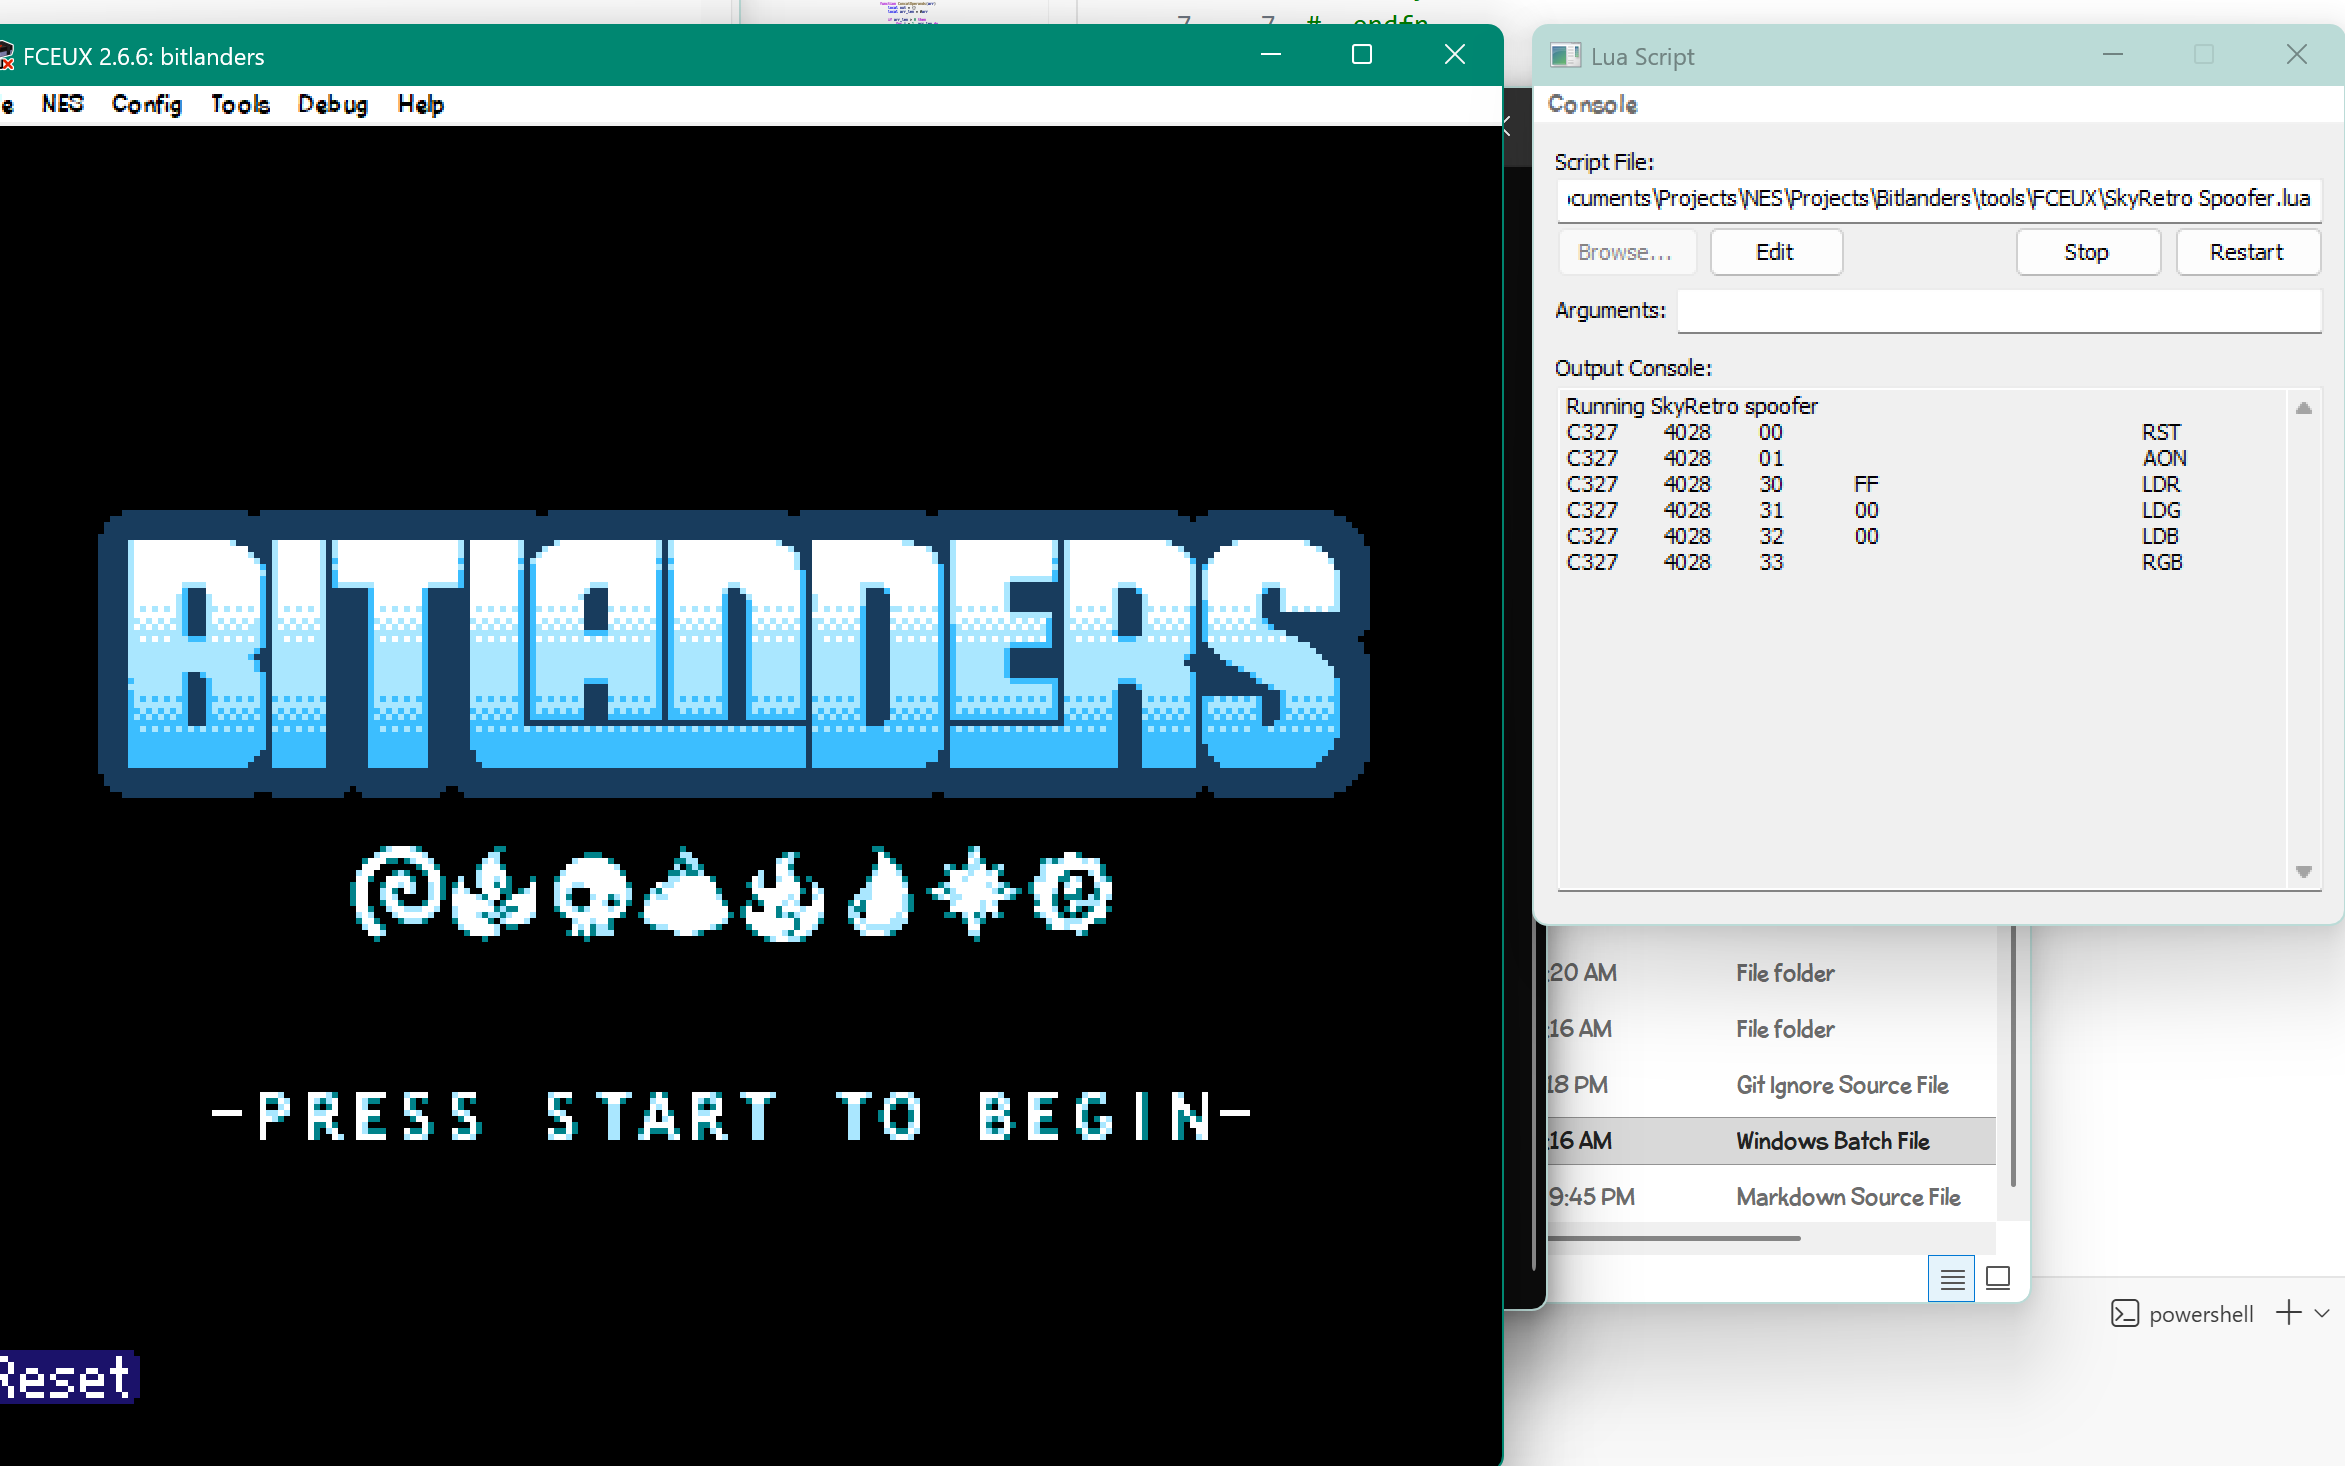
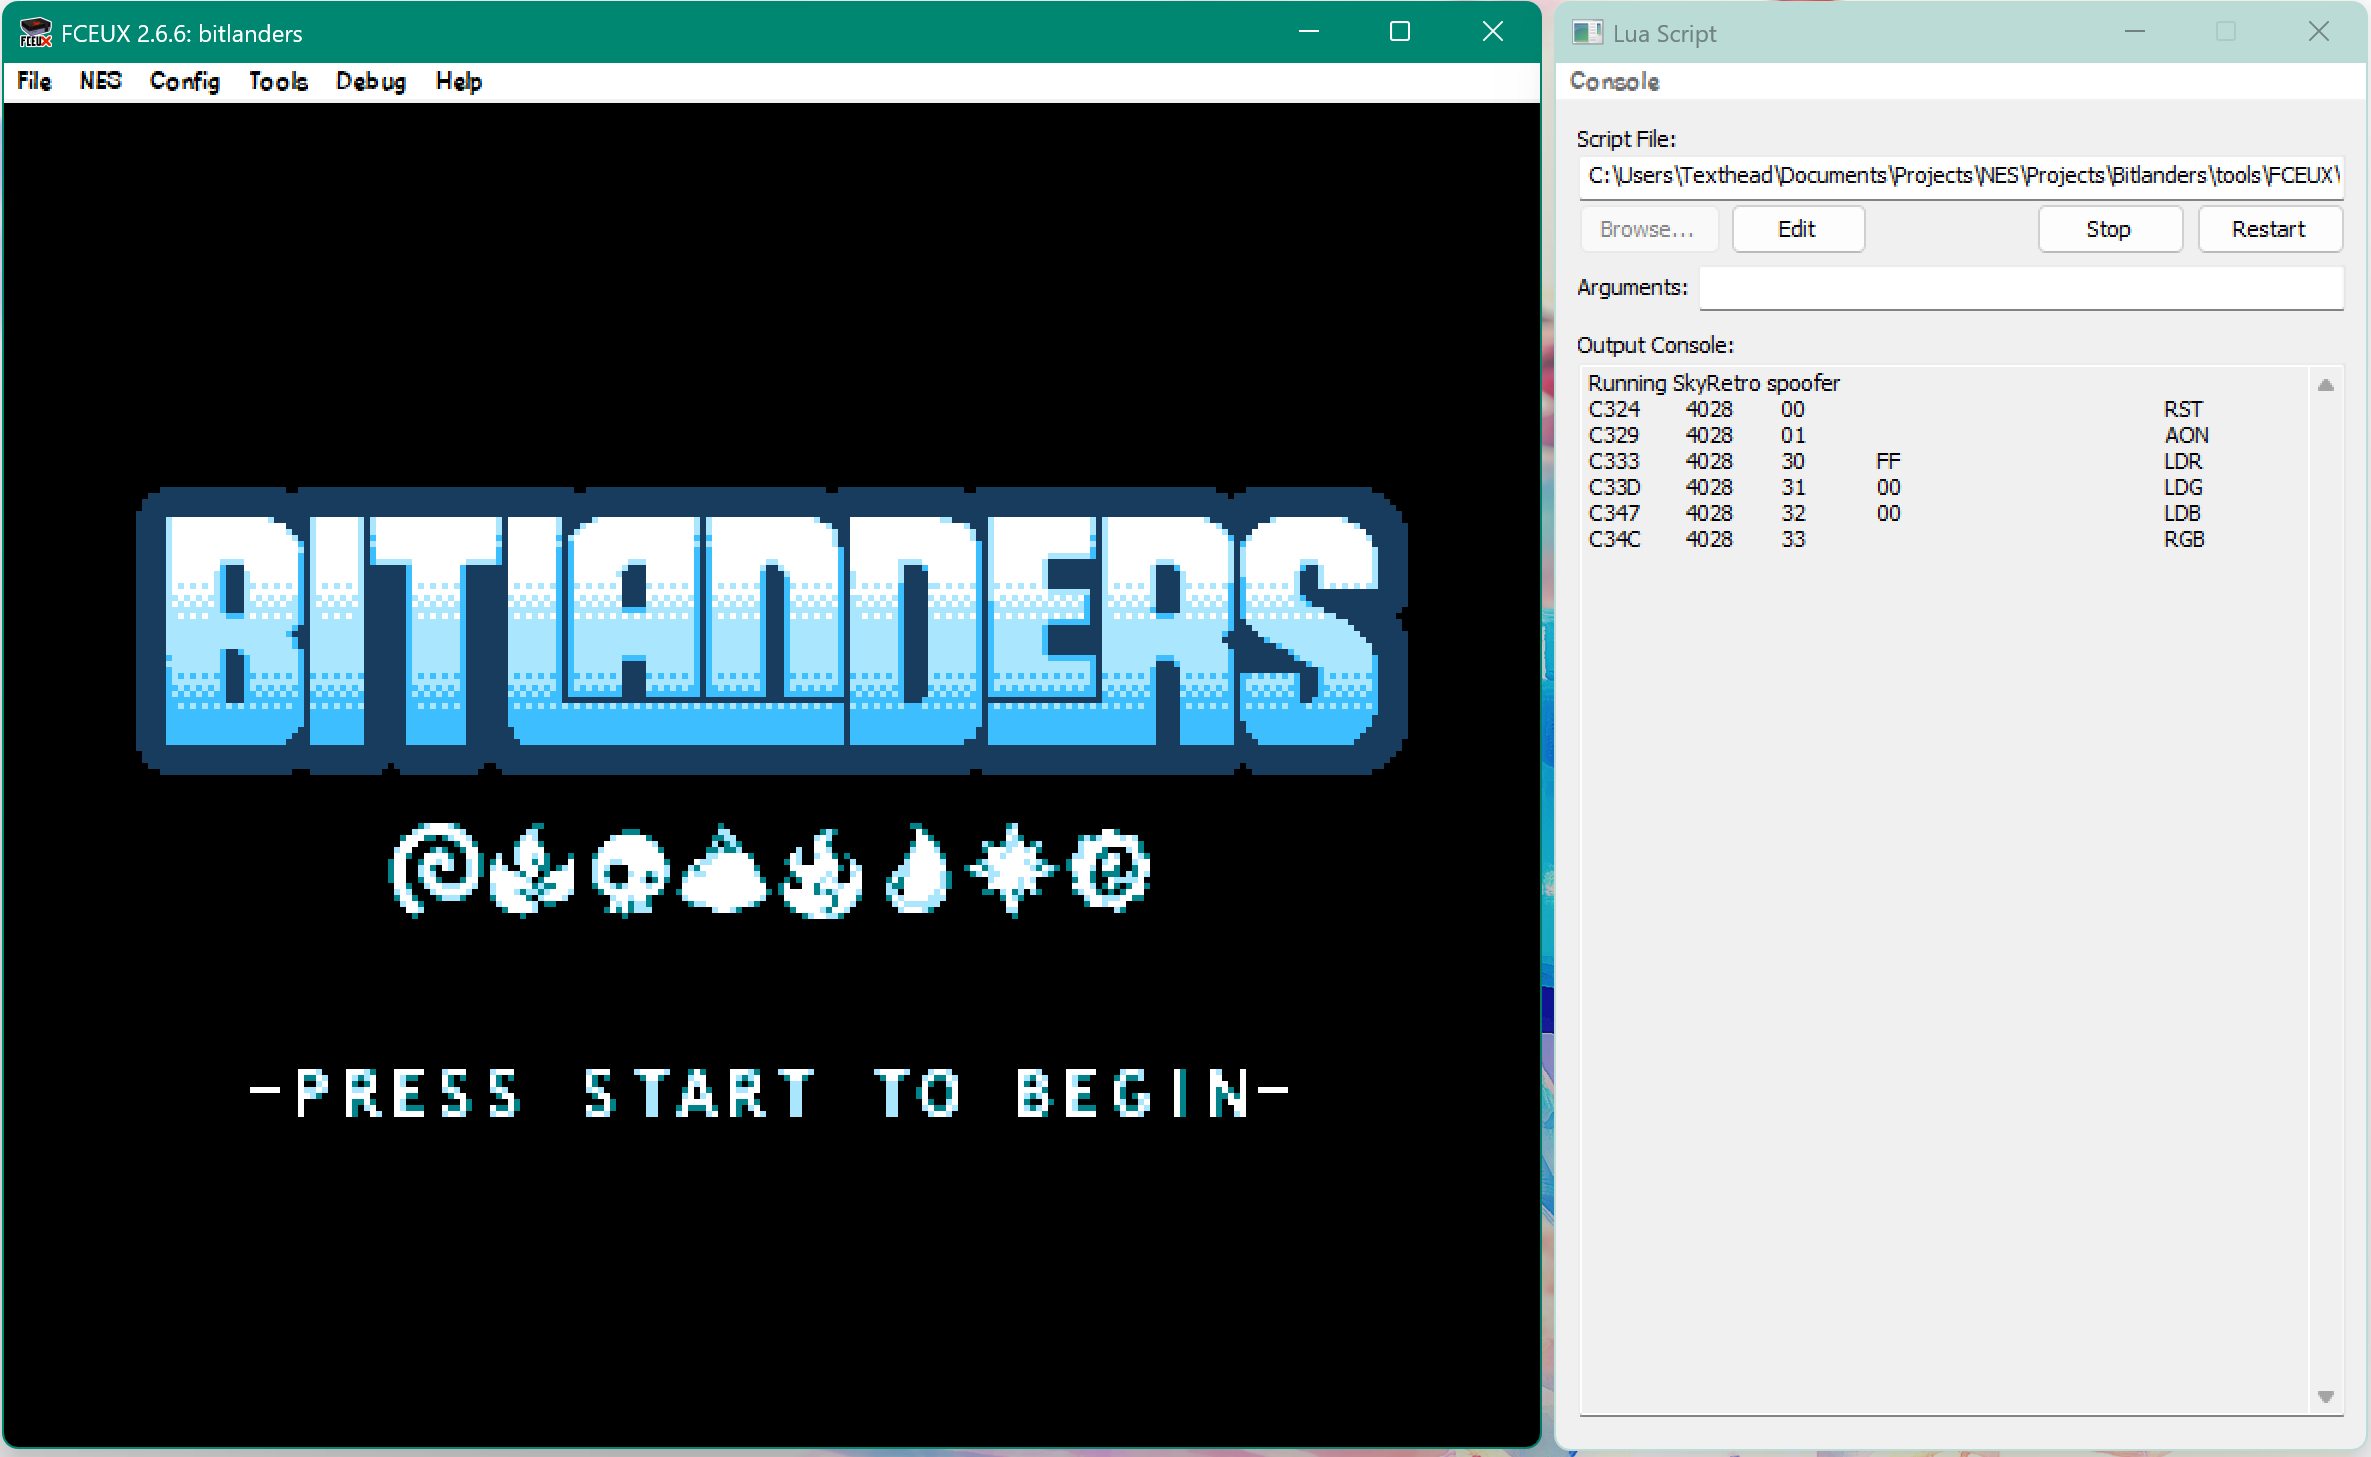
i'm tired yaaaawn

diff --git a/compiler/bin/skyas.py b/compiler/bin/skyas.py
@@ -9,6 +9,9 @@ import sys
 # TODO: make this more robust with a proper parser
 # TODO: detect duplicate function names
 # TODO: better error handling
+# TODO: add NES register support for operands + inline 6502 asm (PHA and PLA are musts)
+
+# loops are now unrolled, reduces cycles for transfer
 
 SKYASM_EXT  = ".ssa"
 CA65ASM_EXT = ".s"
@@ -18,7 +21,7 @@ VERBOSE = False
 
 base_name = ""
 
-# TODO: expand opcodes
+# TODO: expand opcodes, add new ones!
 OPCODES = {
     "rst" : [0x00],
     "aon" : [0x01],
@@ -77,18 +80,12 @@ def emit_proc(name, mcode):
     out.append(f".segment \"CODE\"\n")
     out.append(f"; callable in C as: void {name}(void);")
     out.append(f"_{name}:")
-    out.append(f"\tldx #$00")
-    out.append(f"@loop:")
-    out.append(f"\tlda {name}_data, x")
-    out.append(f"\tsta ${SKYRETRO_CMD_PORT:04X}")
-    out.append(f"\tinx")
-    out.append(f"\tcpx #{len(mcode)}")
-    out.append(f"\tbne @loop")
-    out.append(f"\trts\n")
-    out.append(f"{name}_data:")
 
     for byte in mcode:
-        out.append(f"\t.byte ${byte:02X}")
+        out.append(f"\tlda #${byte:02X}")
+        out.append(f"\tsta ${SKYRETRO_CMD_PORT:04X}")
+
+    out.append(f"\trts\n")
 
     return "\n".join(out)
 
@@ -173,21 +170,21 @@ def assemble():
     for root, _, files in os.walk('.'):
         for filename in files:
             if filename.endswith(SKYASM_EXT):
-                print("Assembling file: " + filename)
+                if VERBOSE: print("Assembling file: " + filename)
                 handle_file(os.path.join(root, filename))
-                print(f"Assembled: {filename}")
+                if VERBOSE: print(f"Assembled: {filename}")
                 out_files.append(os.path.join(root.removeprefix(".\\"), os.path.splitext(filename)[0] + CA65ASM_EXT))
                 obj_list.append(os.path.join(root.removeprefix(".\\"), os.path.splitext(filename)[0] + ".o"))
 
-    print(f"Assembled {len(out_files)} files.")
+    print(f"Assembled {len(out_files)} SkyASM {SKYASM_EXT} files")
     if len(out_files) == 0: return
     
-    with open("skyc_assembled.txt", "w") as f:
-        print("\n".join(out_files))
+    with open("skyas_assembled.txt", "w") as f:
+        if VERBOSE: print("\n".join(out_files))
         f.write("\n".join(out_files))
     
-    with open("skyc_objlist.txt", "w") as f:
-        print("\n".join(obj_list))
+    with open("skyas_objlist.txt", "w") as f:
+        if VERBOSE: print("\n".join(obj_list))
         f.write("\n".join(obj_list))
 
 # we wanna grab the original .ssa file and remove the corresponding .s file
@@ -201,19 +198,19 @@ def clean():
         for filename in files:
             if filename.endswith(SKYASM_EXT):
                 clean_skyasm(os.path.join(root, filename))
-            elif filename == "skyc_assembled.txt":
+            elif filename == "skyas_assembled.txt":
                 if VERBOSE: print(f"Removing file: {filename}")
                 os.remove(filename)
-            elif filename == "skyc_objlist.txt":
+            elif filename == "skyas_objlist.txt":
                 if VERBOSE: print(f"Removing file: {filename}")
                 os.remove(filename)
 
 def help():
-    print("Usage: python skyc.py [--asmc | --clean] [--verbose]")
-    print("  --asmc, -a     : Assemble all skyasm files in directory.")
-    print("  --clean, -c    : Clean all wrapped files in directory.")
-    print("  --verbose, -v  : Enable verbose output.")
-    print("  --help, -h     : Show this help message.")
+    print("Usage: python skyas.py [--asmc | --clean] [--verbose]")
+    print("  --asmc, -a     : Assemble all SkyASM .ssa files in directory")
+    print("  --clean, -c    : Clean all wrapped files in directory")
+    print("  --verbose, -v  : Enable verbose output")
+    print("  --help, -h     : Show this help message")
     sys.exit(0)
 
 if __name__ == "__main__":

diff --git a/docs/SkyASM-Opcodes.md b/docs/SkyASM-Opcodes.md
@@ -1,0 +1,92 @@
+# SkyASM Opcodes
+
+The SkyRetro Peripheral Interface Processor (SRPIP) has 3 registers: `R`, `G`, and `B`.
+
+The SRPIP firmware additionally contains RGB entries for each element, so that the peripheral's LED can be changed to a predefined color based on element.
+
+Opcode (Hex) | Size | Mnemonic | Information
+-------------|------|----------|------------
+00           | 1    | AON      | Enable the nfc field antenna of the connected peripheral
+10           | 1    | RST      | Reset the connected peripheral
+20           | 1    | RGB      | Set the RGB of the peripheral's LED based on the R, G, and B registers
+21           | 2    | LDR      | Load a value into the R register
+22           | 2    | LDG      | Load a value into the G register
+23           | 2    | LDB      | Load a value into the B register
+28           | 4    | COL      | Set the RGB of the peripheral's LED based on the operands (RGB order)
+30           | 2    | ELM      | Set the peripheral's LED based on a given elemental index. ([see more](#elemental-color-index))
+31           | 2    | ELER     | Set the peripheral's LED to the corresponding RGB for the Earth element
+32           | 2    | ELWA     | Set the peripheral's LED to the corresponding RGB for the Water element
+33           | 2    | ELAI     | Set the peripheral's LED to the corresponding RGB for the Air element
+34           | 2    | ELFI     | Set the peripheral's LED to the corresponding RGB for the Fire element
+35           | 2    | ELLF     | Set the peripheral's LED to the corresponding RGB for the Life element
+36           | 2    | ELDE     | Set the peripheral's LED to the corresponding RGB for the Undead element
+37           | 2    | ELMG     | Set the peripheral's LED to the corresponding RGB for the Magic element
+38           | 2    | ELTC     | Set the peripheral's LED to the corresponding RGB for the Tech element
+39           | 2    | ELLT     | Set the peripheral's LED to the corresponding RGB for the Light element
+3A           | 2    | ELDR     | Set the peripheral's LED to the corresponding RGB for the Dark element
+3B           | 2    | ELKS     | Set the peripheral's LED to the corresponding RGB for the Kaos element
+40           | 1    | RGBL     | If supported, set the peripheral's left LED based on the R, G, and B registers
+41           | 1    | RGBR     | If supported, set the peripheral's right LED based on the R, G, and B registers
+42           | 1    | RGBT     | If supported, set the peripheral's Trap Slot LED based on the R register
+48           | 4    | COLL     | If supported, set the peripheral's left LED based on the operands (RGB order)
+49           | 4    | COLR     | If supported, set the peripheral's left LED based on the operands (RGB order)
+4A           | 2    | TRP      | If supported, set the peripheral's left LED based on the operand
+50           | 1    | INR      | Increment the value in the R register by 1
+51           | 1    | ING      | Increment the value in the G register by 1
+52           | 1    | INB      | Increment the value in the B register by 1
+60           | 1    | SON      | If supported, activates the sound/speaker on the peripheral
+68           | 2    | VIB      | If supported, configure Trap Slot vibrancy tolerance (higher value = louder audio needed to make the LED glow)
+70           | 2    | WAIT     | Wait a given amount of ticks (tick is equal to a frame - 60hz), instructions avoid this wait time unless prepended by the BUF instruction
+74           | 1    | BUF      | Add the next instruction to the buffer. If there is no wait duration, the next instruction will execute immediately
+7A           | 1    | NOW      | Clear the wait time to execute the buffered instructions. Any buffered instructions will execute immediately
+80           | 1    | AOFF     | Disable the nfc field antenna of the connected peripheral
+A8           | 1    | BCOL     | If supported, set the peripheral's LED to revert to its basic hardware color cycle
+C0           | 2    | FLL      | If supported, set the peripheral's left LED based on the R, G, and B registers, with a fade duration (tick is equal to a frame - 60hz)
+C1           | 2    | FLR      | If supported, set the peripheral's right LED based on the R, G, and B registers, with a fade duration (tick is equal to a frame - 60hz)
+D0           | 1    | DER      | Decrement the value in the R register by 1
+D1           | 1    | DEG      | Decrement the value in the R register by 1
+D2           | 1    | DEB      | Decrement the value in the R register by 1
+E0           | 1    | SOFF     | If supported, deactives the sound/speaker on the peripheral
+F8           | 2    | CBUF     | Clear the instruction buffer
+F0           | 1    | WAIL     | Get the amount of wait ticks remaining, fetch via SKYRETRO_CMD_OUT
+F4           | 1    | BUFL     | Get the amount of instructions in the buffer, fetch via SKYRETRO_CMD_OUT
+FA           | 1    | NOP      | No operation
+
+## Addressing Modes
+`#` loads an immediate value
+> For instance, `LDR #$40` would load `0x40` into the R register.
+
+`"A"`/`"X"`/`"Y"` loads the value in the current register.
+> For instance, `LDG "A"` would load the value stored in the `A` register into the G register.
+
+Not prepending `#` to the value, or not using a register, loads the value from the address.
+> For instancee.g. `LDB $80` would load the value at address `0xC0` into the B register.
+
+> [!Note]
+> prepending the integer value with a `$` indicates hex, and `%` indicates binary. Otherwise, the value is treated as base-10.
+
+## Elemental Color Index
+Each element has a given numerical value.
+ID | Element
+---|--------
+00 | None
+01 | Earth
+02 | Water
+03 | Air
+04 | Fire
+05 | Life
+06 | Undead
+07 | Magic
+08 | Tech
+09 | Light
+0A | Dark
+0B | Kaos
+
+For example, using the instruction `ELM #$04` would give the same outcome as `ELFI` (set LED to the Fire element color).
+
+Using `ELM #$00` will set the LED to RGB `#000000`, unless a proper entry is added to the firmware for element `0`. Values above `0B` are undefined behavior and do nothing.
+
+Additional elements can be taken advantage of with this system, given:
+- A new color entry is made for said additional element (e.g. `OC` for a new element)
+- Correctly called by the NES ROM
+    - For example, `ELM #$0C` to set the peripheral's LED to the aforementioned new color entry

diff --git a/tools/FCEUX/FCEUX Scripts.md b/tools/FCEUX/FCEUX Scripts.md
@@ -4,19 +4,27 @@ Development scripts to help with SkyRetro Engine NES game development.
 ## SkyRetro Spoofer.lua
 ![spoofer](/assets/media/FCEUX_spoofer.png)
 
-Address $4028 is treated as a streamed machine code port for the NES to send machine code to the SkyRetro microcontroller.
+Address `$4028` is treated as a streamed command port (`SKYRETRO_CMD_PORT`) for the NES to send instructions to the SkyRetro Peripheral Interface Processor (SRPIP), allowing it to control peripheral devices.
 
-The format is a custom ISA, skyasm assembly, compiled down by the skyc compiler into machine code hex, which is then wrapped in 6502 ASM to stream each byte over the port. skyasm is contained within .ssa files.
+The format is a custom assembly language, SkyASM, compiled down by the skyas assembler into byte-level semantic instructions, which are then wrapped in 6502 ASM to stream each byte over the port. SkyASM is contained within .ssa files (SkyASM Source Assembly). The SRPIP then interprets these instructions and responds accordingly.
 
-The output console when using the spoofer acts as a dissassembler to inspect the skyasm assembly, formatted as so:
+Instructions either execute internal logic (modifying registers, clearing buffers, etc) or external logic (controlling peripheral LEDs or speakers, etc.).
 
-PC   | Address | Opcode (Hex) | Operand 1 | Operand 2 | Operand 3 | Opcode Mnemonic
------|---------|--------------|-----------|-----------|-----------|----------------
-C327 | 4028    | 00           |           |           |           | RST
-C327 | 4028    | 01           |           |           |           | AON
-C327 | 4028    | 30           | FF        |           |           | LDR
-C327 | 4028    | 31           | 00        |           |           | LDG
-C327 | 4028    | 32           | 00        |           |           | LDB
-C327 | 4028    | 33           |           |           |           | RGB
+The output console when using this LUA script acts as a dissassembler to inspect the SkyASM assembly instructions that are streamed by the NES, formatted as so:
 
-The table here has example data taken from the embedded image above.
+PC   | Address | Opcode (Hex) | Operand(s) | Opcode Mnemonic
+-----|---------|--------------|------------|----------------
+
+For example, the output console from the embedded image above would look like:
+
+PC   | Address | Opcode (Hex) | Operand(s) | Opcode Mnemonic
+-----|---------|--------------|------------|----------------
+C324 | 4028    | 00           |            | RST
+C329 | 4028    | 01           |            | AON
+C333 | 4028    | 30           | FF         | LDR
+C33D | 4028    | 31           | 00         | LDG
+C347 | 4028    | 32           | 00         | LDB
+C34C | 4028    | 33           |            | RGB
+
+>[!WARNING]
+> These Mnemonic and Opcode pairings are outdated in relation to the [SkyASM Opcodes](../../docs/SkyASM-Opcodes.md)th this script and skyas.
